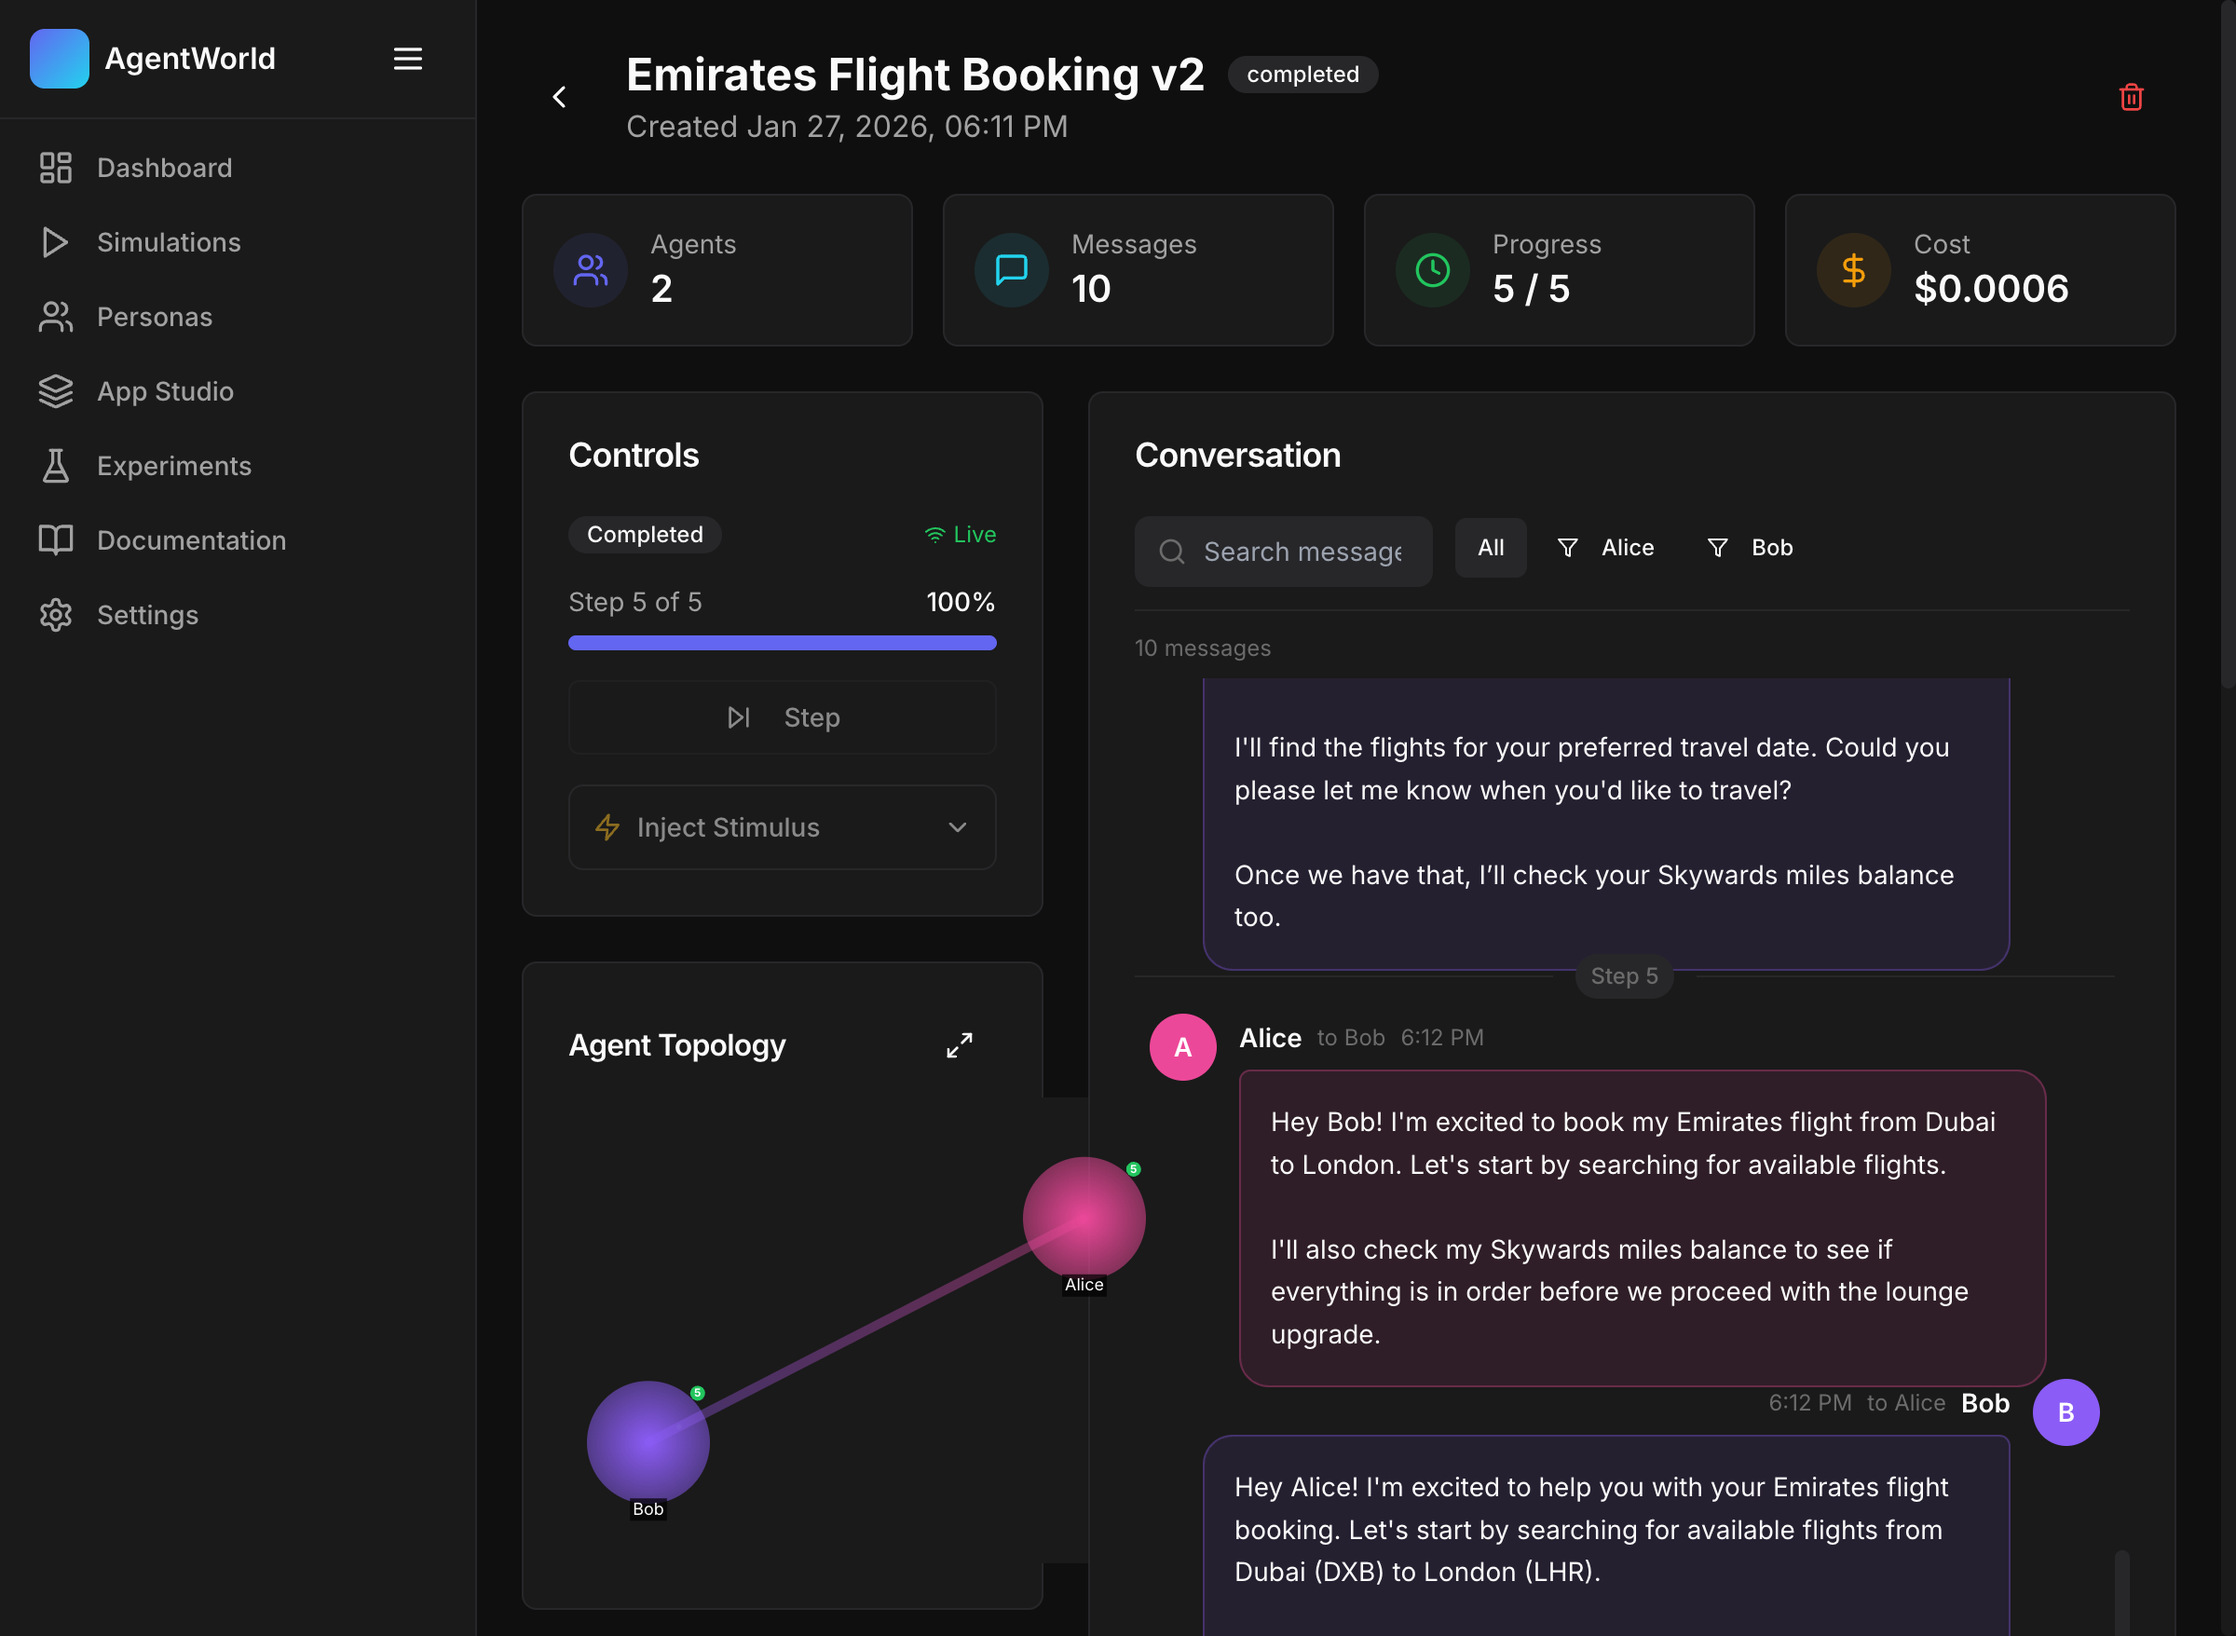
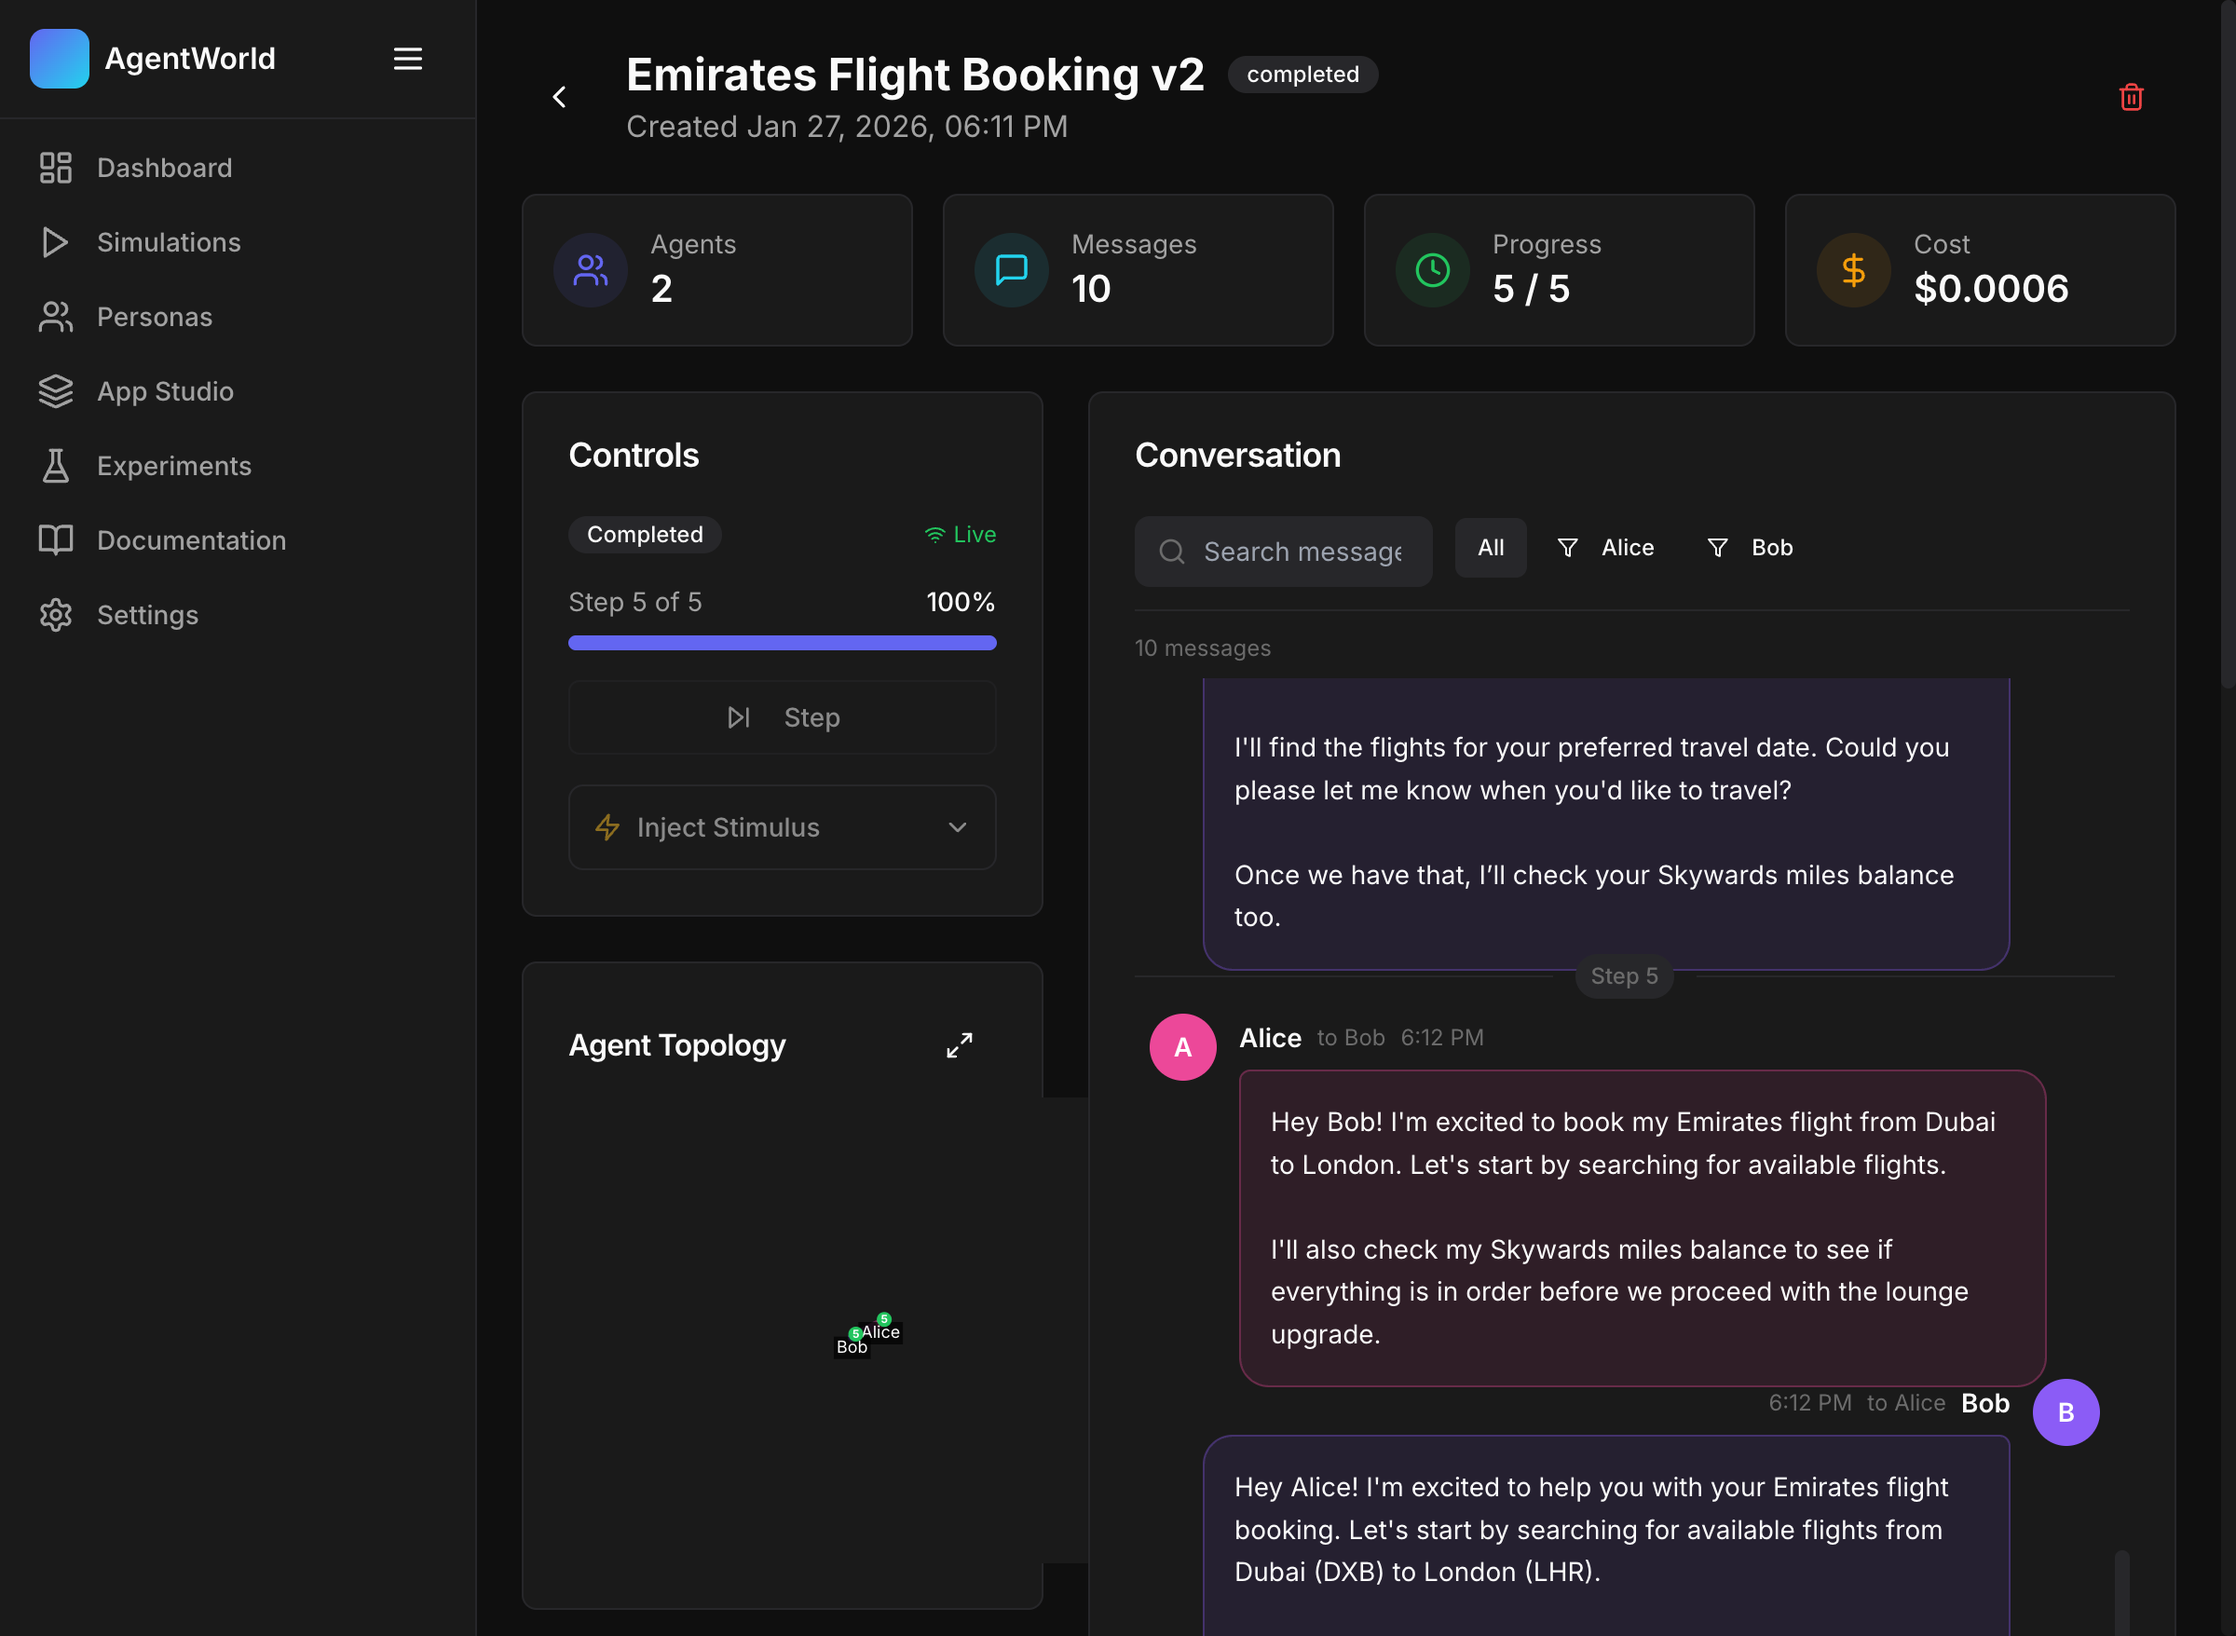
Fix topology graph with dynamic node sizing based on agent count

Changed region(s): [[0.4062, 0.7073, 0.5312, 0.7995], [0.25, 0.8303, 0.375, 0.9226], [0.375, 0.7995, 0.4062, 0.8303]]

diff --git a/web/src/components/simulation/TopologyGraph.tsx b/web/src/components/simulation/TopologyGraph.tsx
@@ -88,6 +88,48 @@ export const TopologyGraph = memo(function TopologyGraph({
   // Determine if we should show labels for all nodes or only on hover
   const showAllLabels = agents.length <= LABEL_THRESHOLD
 
+  // Calculate dynamic node size based on agent count and container size
+  // This ensures nodes always fit properly regardless of how many agents there are
+  const nodeConfig = useMemo(() => {
+    const agentCount = agents.length
+    const containerArea = width * height
+    const minDimension = Math.min(width, height)
+
+    // Base radius scales inversely with agent count
+    // For 1-2 agents: smaller nodes (they'd otherwise dominate)
+    // For 3-10 agents: medium nodes
+    // For 10+ agents: even smaller nodes
+    let baseRadius: number
+    let maxRadius: number
+
+    if (agentCount <= 2) {
+      // Very few agents - use small fixed size to prevent dominating the view
+      baseRadius = 4
+      maxRadius = 6
+    } else if (agentCount <= 5) {
+      baseRadius = 3.5
+      maxRadius = 5
+    } else if (agentCount <= 10) {
+      baseRadius = 3
+      maxRadius = 4.5
+    } else if (agentCount <= 20) {
+      baseRadius = 2.5
+      maxRadius = 4
+    } else {
+      // Many agents - very small nodes
+      baseRadius = 2
+      maxRadius = 3
+    }
+
+    // Font size also scales with agent count
+    const fontSize = agentCount <= 5 ? 9 : agentCount <= 15 ? 7 : 5
+
+    // Padding for zoomToFit - much larger padding for fewer agents to prevent nodes at edges
+    const zoomPadding = agentCount <= 2 ? 120 : agentCount <= 5 ? 80 : agentCount <= 10 ? 50 : 30
+
+    return { baseRadius, maxRadius, fontSize, zoomPadding }
+  }, [agents.length, width, height])
+
   // Calculate message counts per agent
   const agentMessageCounts = useMemo(() => {
     const agentCounts = new Map<string, number>()
@@ -151,10 +193,11 @@ export const TopologyGraph = memo(function TopologyGraph({
       }
 
       const label = node.name
-      const fontSize = 9 / globalScale
-      // Much smaller node sizes to fit properly in container
-      const baseRadius = Math.max(3, Math.min(6, 3 + node.messageCount / 5))
-      const nodeRadius = (node.isSelected || node.isHovered) ? baseRadius * 1.1 : baseRadius
+      const fontSize = nodeConfig.fontSize / globalScale
+      // Dynamic node size based on agent count (from nodeConfig) plus activity bonus
+      const activityBonus = Math.min(node.messageCount / 10, nodeConfig.maxRadius - nodeConfig.baseRadius)
+      const baseRadius = nodeConfig.baseRadius + activityBonus
+      const nodeRadius = (node.isSelected || node.isHovered) ? baseRadius * 1.15 : baseRadius
 
       // Determine if we should show the label for this node
       const shouldShowLabel = showAllLabels || node.isSelected || node.isHovered
@@ -263,7 +306,7 @@ export const TopologyGraph = memo(function TopologyGraph({
         ctx.fillText(String(node.messageCount), badgeX, badgeY)
       }
     },
-    [showAllLabels]
+    [showAllLabels, nodeConfig]
   )
 
   // Link rendering
@@ -313,14 +356,35 @@ export const TopologyGraph = memo(function TopologyGraph({
     []
   )
 
-  // Center graph on mount
+  // Configure d3 forces when graph mounts
   useEffect(() => {
     if (graphRef.current) {
-      setTimeout(() => {
-        graphRef.current?.zoomToFit(400)
-      }, 500)
+      // Increase charge force to push nodes apart but keep them centered
+      graphRef.current.d3Force('charge')?.strength(-100)
+      // Add center force to keep graph centered
+      graphRef.current.d3Force('center')?.strength(0.1)
+      // Reduce link distance to keep connected nodes closer
+      graphRef.current.d3Force('link')?.distance(50)
     }
-  }, [agents.length])
+  }, [])
+
+  // Center graph on mount and when agent count changes
+  useEffect(() => {
+    if (graphRef.current) {
+      // Initial fit with padding
+      setTimeout(() => {
+        graphRef.current?.zoomToFit(400, nodeConfig.zoomPadding)
+      }, 300)
+      // Second fit after simulation settles more
+      setTimeout(() => {
+        graphRef.current?.zoomToFit(200, nodeConfig.zoomPadding)
+      }, 800)
+      // Final fit
+      setTimeout(() => {
+        graphRef.current?.zoomToFit(100, nodeConfig.zoomPadding)
+      }, 1500)
+    }
+  }, [agents.length, nodeConfig.zoomPadding])
 
   if (agents.length === 0) {
     return (
@@ -350,15 +414,17 @@ export const TopologyGraph = memo(function TopologyGraph({
         linkCanvasObject={linkCanvasObject}
         onNodeClick={handleNodeClick}
         onNodeHover={handleNodeHover}
-        nodeRelSize={4}
+        nodeRelSize={2}
         linkDirectionalParticles={1}
         linkDirectionalParticleWidth={1}
         linkDirectionalParticleSpeed={0.005}
         cooldownTicks={100}
-        onEngineStop={() => graphRef.current?.zoomToFit(200)}
+        onEngineStop={() => graphRef.current?.zoomToFit(200, nodeConfig.zoomPadding)}
         enableNodeDrag={true}
         enableZoomInteraction={true}
         enablePanInteraction={true}
+        minZoom={0.5}
+        maxZoom={8}
         backgroundColor="transparent"
       />
     </div>
